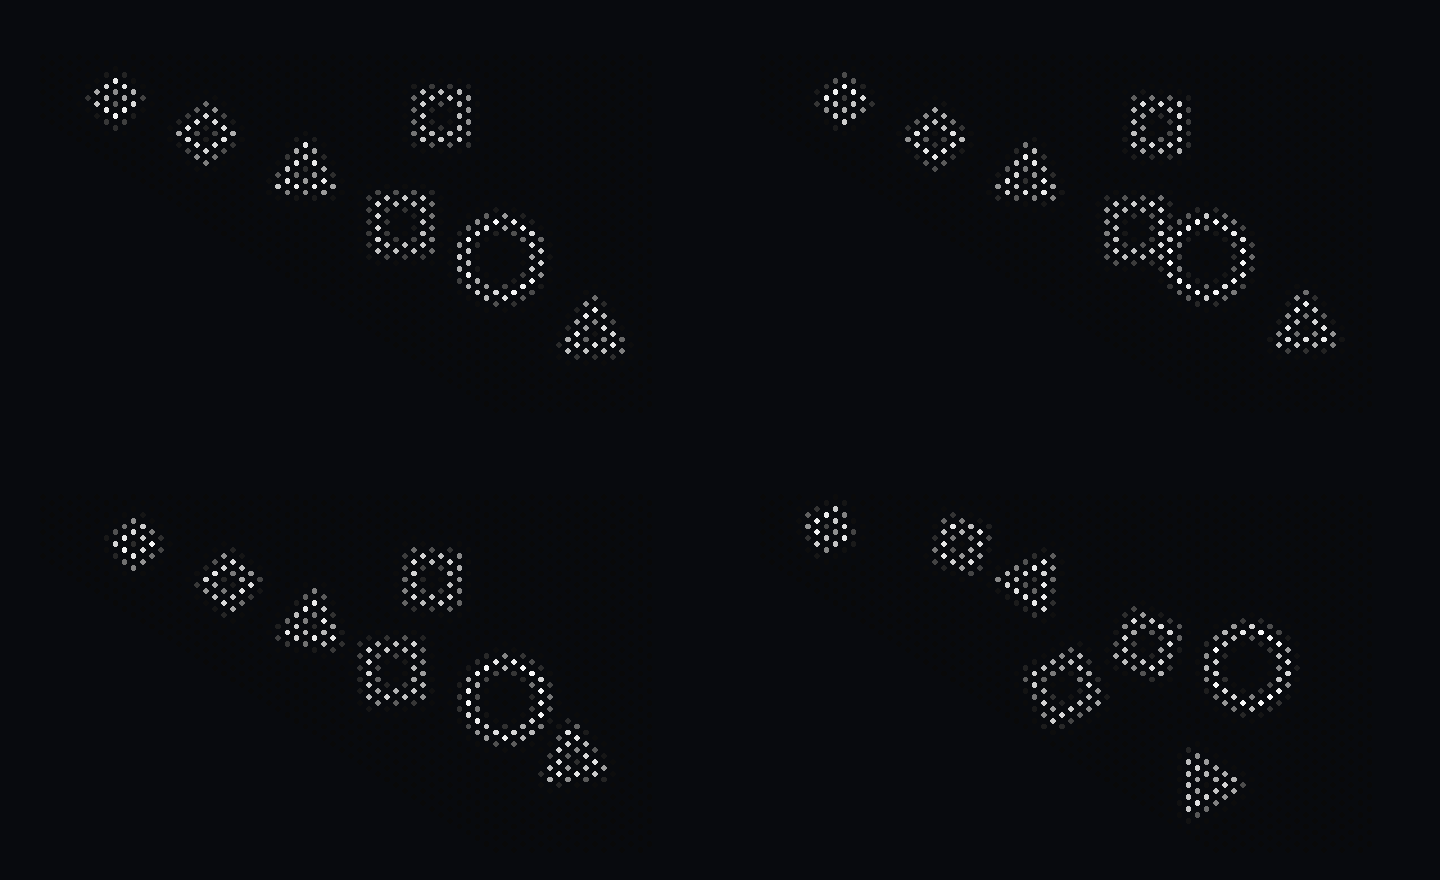
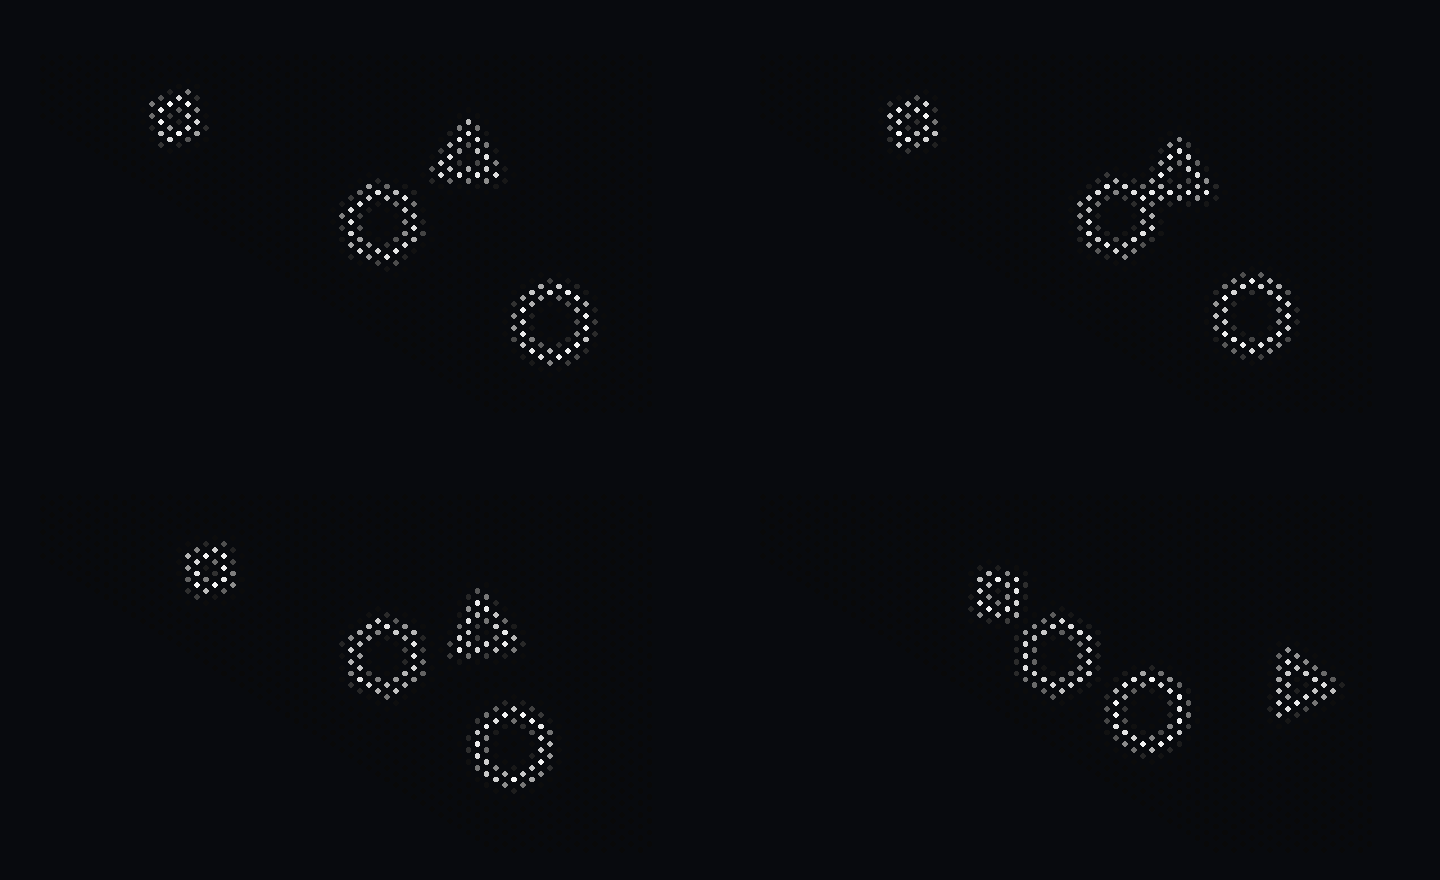
Use four scattered shapes in the slow asteroid animation

diff --git a/artwork/geometric-asteroids/generate.py b/artwork/geometric-asteroids/generate.py
@@ -16,16 +16,14 @@ PERIOD, SIM_TIME, FPS, DT = 180.0, 72.0, 10, .05
 STROKE_MARGIN, GAP = 1.0, .65
 # x,y,radius,sides,angle,brightness; circles are approximated by 24 sides for collisions.
 BODIES = [
-    (-18,18.4,1.4,4,0,235),
-    (-11,21,1.8,4,.1,220),
-    (-3,24,2.1,3,-math.pi/2,225),
-    (4,28,2.65,4,math.pi/4,205),
-    (13,31,2.9,0,0,240),
-    (8,19.4,2.3,4,math.pi/4,210),
-    (20,37,2.2,3,-math.pi/2,225),
+    (-15,19.2,1.7,4,.37,235),
+    (11,20.5,2.5,3,.68,225),
+    (1,29,2.7,6,.19,220),
+    (19,37,2.6,0,0,235),
 ]
-VELOCITIES = np.array([(.12,.025),(.14,.055),(.04,.07),(.23,.08),(-.20,-.025),(-.055,.14),(-.12,-.09)])
-SPINS = np.array([.006,-.008,.009,-.006,.0,.005,-.007])
+# Uneven positions and independent headings avoid an orderly starting formation.
+VELOCITIES = np.array([(.14,.05),(-.08,.17),(.14,-.055),(-.17,-.07)])
+SPINS = np.array([.007,-.008,.005,0.0])
 RADII = np.array([b[2] for b in BODIES])
 MASSES = RADII**2
 INV_MASS = 1/MASSES

diff --git a/artwork/geometric-asteroids/README.md b/artwork/geometric-asteroids/README.md
@@ -1,6 +1,6 @@
 # Geometric Asteroids
 
-Seven monochrome outlined circles and regular polygons drift very slowly, rotate gently, and bounce against each other and the GA402 AniMe Matrix's actual tapered boundary. Brightness stays steady; there are no particle effects or flashes.
+Four monochrome outlined shapes—a square, triangle, hexagon, and circle—start scattered at uneven positions and angles. They drift very slowly, rotate gently, and bounce against each other and the GA402 AniMe Matrix's actual tapered boundary. Brightness stays steady; there are no particle effects or flashes.
 
 The simulation uses convex-polygon separating-axis collisions, elastic impulses weighted by body size, and reflection against the convex hull of the physical LED coordinates. Its small time steps and iterative contact correction prevent pass-through and overlap.
 
